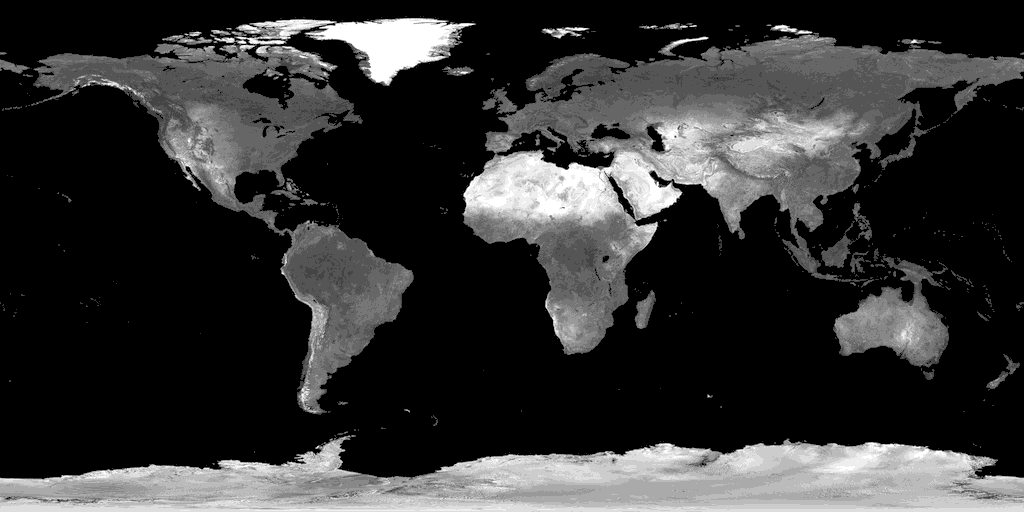
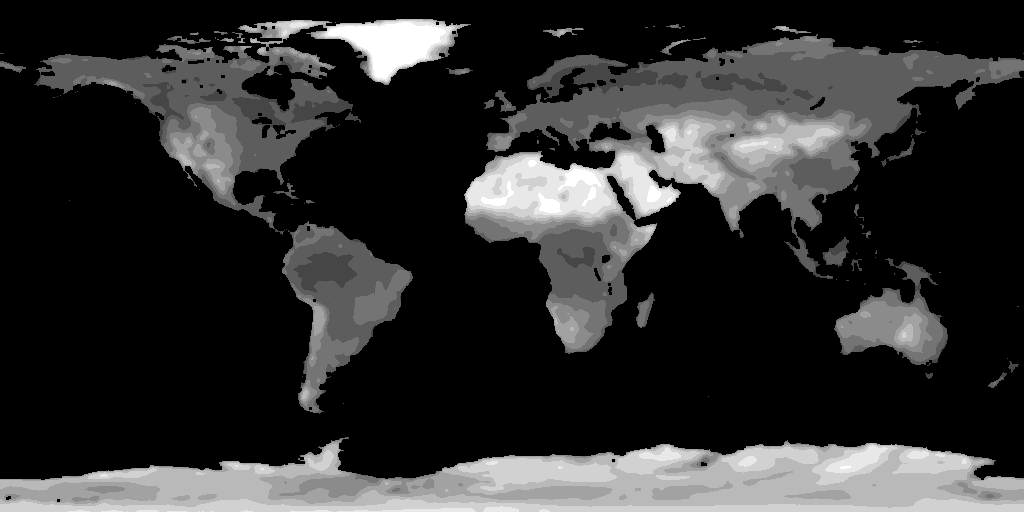
feat(globe): the land's picture as a dot matrix (denser where darker), lighter and smoothed, on until the borders come in

diff --git a/apps/web/app/globe/engine/materials.ts b/apps/web/app/globe/engine/materials.ts
@@ -172,14 +172,16 @@ export function mistMaterial(): ShaderMaterial {
 }
 
 /**
- * The SURFACE: the planet's own picture, a satellite view of the land (NASA's Blue Marble, public domain) in grey pixels: `uEarth` is its brightness at 1024 x 512 (0 at sea,
- * in 16 steps), looked up by the fragment's direction (the scene being in the earth's frame, so it turns with the planet) with NEAREST magnification, so that it stays crisp,
- * blocks of flat grey, however near the camera comes, and is averaged when the planet is small. The brightness is posterised to a few flat steps and drawn in the
- * mist's grey at a low alpha (`uCover`, times `uAmt`: the scene fades it with the zoom, `engine/surface.ts`). The page's linework is over it.
+ * The SURFACE: the planet's own picture, a satellite view of the land (NASA's Blue Marble, public domain) as a DOT MATRIX: `uEarth` is its brightness at 1024 x 512 (0 at
+ * sea, 12 steps, smoothed so that it reads as terrain and not as noise), looked up by the fragment's direction (the scene being in the earth's frame, so it turns with the planet). Each texel of the picture is one cell of the
+ * matrix, and whether it holds a dot is the ordered dither's call (the lines' own `dither4`, on the cell's coordinates, so the pattern belongs to the ground and turns with
+ * it) against the cell's DENSITY: the darker the ground, the denser the dots (a twentieth of the cells in the brightest deserts and ice, over two fifths in the darkest forests),
+ * with space left between them. A dot is a flat grey (`uColor`, at `uCover`); `uAmt` (0..1: the scene fades it with the zoom, `engine/surface.ts`) thins the dots out. Nothing
+ * is filtered (nearest in the picture), so the cells stay crisp squares however near the camera comes.
  */
 export function surfaceMaterial(): ShaderMaterial {
   return new ShaderMaterial({
-    uniforms: { uColor: { value: new Color() }, uAmt: { value: 0 }, uCover: { value: 0.3 }, uEarth: { value: null } },
+    uniforms: { uColor: { value: new Color() }, uAmt: { value: 0 }, uCover: { value: 0.6 }, uEarth: { value: null } },
     vertexShader: /* glsl */ `
       varying vec3 vDir;
       void main() { vDir = position; gl_Position = projectionMatrix * modelViewMatrix * vec4(position, 1.0); }
@@ -187,15 +189,17 @@ export function surfaceMaterial(): ShaderMaterial {
     fragmentShader: /* glsl */ `
       uniform vec3 uColor; uniform float uAmt; uniform float uCover; uniform sampler2D uEarth;
       varying vec3 vDir;
+      ${MIST_GLSL}
       void main() {
         vec3 n = normalize(vDir);
         vec2 uv = vec2(atan(n.x, n.z) * 0.15915494 + 0.5, asin(clamp(n.y, -1.0, 1.0)) * 0.31830989 + 0.5);
         float v = texture2D(uEarth, uv).r;
         if (v < 0.06) discard;
-        // four flat steps of grey
-        float a = (floor(v * 4.0 - 0.001) + 1.0) / 4.0 * uCover * uAmt;
-        if (a < 0.004) discard;
-        gl_FragColor = vec4(uColor, a);
+        // brightness 0..1 over the land (the picture lifts it to 0.2 and over); dark is dense
+        float dark = 1.0 - clamp((v - 0.2) / 0.8, 0.0, 1.0);
+        float density = (0.05 + 0.4 * dark * dark) * uAmt;
+        if (dither4(floor(uv * vec2(1024.0, 512.0))) >= density) discard;
+        gl_FragColor = vec4(uColor, uCover);
       }
     `,
     side: FrontSide,

diff --git a/apps/web/app/globe/engine/surface.ts b/apps/web/app/globe/engine/surface.ts
@@ -1,14 +1,14 @@
 /**
- * The land's own picture (`surfaceMaterial`, engine/materials.ts: NASA's Blue Marble in grey pixels, `public/media/earth-grey.png`) is a layer for the UNZOOMED views: whole
- * at the page's resting view and below it, fading out as the visitor zooms in (from `from` to `to`, the zoom of the unified camera) and gone before the country borders come
- * on (`TUNING.borderZoom`), which take its place. At rest it is fainter (`rest`, of its full strength); the interlude brings it to its whole (`landShare`, 0..1, the
- * caption's own easing).
+ * The land's own picture (`surfaceMaterial`, engine/materials.ts: NASA's Blue Marble as a dot matrix, denser where the ground is darker, `public/media/earth-grey.png`) is a layer
+ * for the UNZOOMED views: whole at the page's resting view and for the whole of the range below the country borders, and thinning out (fewer dots, from `from` to `to`, the zoom of
+ * the unified camera) only over the last stretch before the borders come on (`TUNING.borderZoom`), which take its place. At rest it is a little under its full strength (`rest`);
+ * the interlude brings it to its whole (`landShare`, 0..1, the caption's own easing).
  */
 export const SURFACE = {
   url: "/media/earth-grey.png",
-  rest: 0.6,
-  from: 1.0,
-  to: 2.8,
+  rest: 0.8,
+  from: 2.2,
+  to: 3.2,
 } as const;
 
 /** How much of the land's picture is shown at `zoom` (the camera's, as drawn), with the interlude's share `landShare`: 0..1. */

diff --git a/apps/web/app/globe/engine/scene.ts b/apps/web/app/globe/engine/scene.ts
@@ -193,10 +193,10 @@ export class GlobeScene {
     const mixTo = (k: number) => [0, 1, 2].map((i) => bg[i]! + (t.ink[i]! - bg[i]!) * k) as [number, number, number];
     this.atmosphere.uniforms.uColor!.value.setRGB(...mixTo(0.55));
     this.mist.uniforms.uColor!.value.setRGB(...mixTo(0.3));
-    this.surface.uniforms.uColor!.value.setRGB(...mixTo(0.55));
+    this.surface.uniforms.uColor!.value.setRGB(...mixTo(0.5));
     this.atmosphere.uniforms.uCover!.value = t.scheme === "dark" ? 0.55 : 0.45;
     this.mist.uniforms.uCover!.value = t.scheme === "dark" ? 0.5 : 0.4;
-    this.surface.uniforms.uCover!.value = t.scheme === "dark" ? 0.5 : 0.42;
+    this.surface.uniforms.uCover!.value = t.scheme === "dark" ? 0.4 : 0.34;
     this.graticule.uniforms.uColor!.value.setRGB(...t.grid);
     this.ramp = t.ramp;
     this.borderLevelNow = -1;

diff --git a/docs/web-architecture.md b/docs/web-architecture.md
@@ -1451,3 +1451,4 @@ p50 2.1 to 2.4 ms before and after, JS render p50 0.2 to 0.3 ms); idle still 0 r
 - **Grain on the ground, rows gone, the word rises, the lockup from below (2026-10-24, owner's review of the phone build)**: (1) the land grain is a hash of the third-of-a-degree CELL of the ground (`grainMaterial`), not of the screen pixel, so it turns with the planet; a cell is as many art pixels wide as the camera is near. (2) The interlude's rows are not drawn once they have left (`CaptionMotion.eggRowsOut`, after `leaveMs`): the flight's camera could see them go on round their ring behind the planet and out again. (3) `CINEMATIC.leadStartLon` 205 (was 180, for the 2-radius ring): at `wordFromU` (the camera in place over Greece) the word's leading end is behind the planet and rises over the horizon (frames at 6.9 to 7.5 s) instead of standing in the picture. (4) The lockup's camera is 4 degrees BELOW the equator (`lockLat` -4), looking slightly up: the word bows a little, as in the reference.
 - **The land's own picture replaces the grain (2026-10-24, owner: "a pixelated satellite view, for the unzoomed views, fading out as the borders come in")**: `public/media/earth-grey.png` (61 KB: NASA's Blue Marble land, grey, 16 steps, 1024 x 512, sea 0; notice beside it) is looked up by the fragment's direction in `surfaceMaterial` (so it turns with the planet), NEAREST magnification (crisp flat blocks however near the camera comes) and linear minification, in four flat steps of the mist's grey at 0.5 / 0.42 alpha. `engine/surface.ts` `surfaceShare(zoom, landShare)`: whole below zoom 1.0, gone by 2.8 (the borders come on at 3.25), at 0.6 of its strength at rest and 1 in the interlude; set each frame in `Renderer.syncCamera`. Loaded in an idle moment after construction (`GlobeScene.loadSurface`), drawn only once in. It is also there on the page's normal view (faint): `SURFACE.rest` 0 removes that. The close shots of the flight read as zoomed in, so it is gone there; it is there at the lockup.
 - **No pop at the word's entrance (2026-10-24)**: `leadStartLon` 205 to 218: at `wordFromU` (7.1 s) the word's leading end is now well behind the planet (frames every 0.2 s: nothing at 6.8 to 7.2 s, a speck on the limb at 7.4 s, then the first letters climbing), so being drawn from that frame on is not seen. The word cannot rise sooner than the camera arrives at the opening shot: from the dive's earlier cameras the ring is seen beside the planet.
+- **The land's picture is a dot matrix, lighter (2026-10-24, owner: "a dot matrix, denser where darker, visible until the borders; lighter and fainter, it read as noise")**: `surfaceMaterial` draws one grey dot per cell of the ground (the picture's texel, the lines' `dither4` on the cell's coordinates, so it turns with the planet) where the ordered dither passes the cell's DENSITY, `0.05 + 0.4 * dark^2` (dark = 1 - brightness: sparse deserts and ice, denser forests), thinned by `uAmt`. The picture is smoothed (Gaussian 2.2 px at 1024 x 512, 12 steps, 22 KB) so that the density follows regions, not texels. Grey 50 % of the way to the ink at 0.40 / 0.34 alpha. It stays whole up to zoom 2.2 and thins out until 3.2, where the borders (3.25) take over (`SURFACE`).
